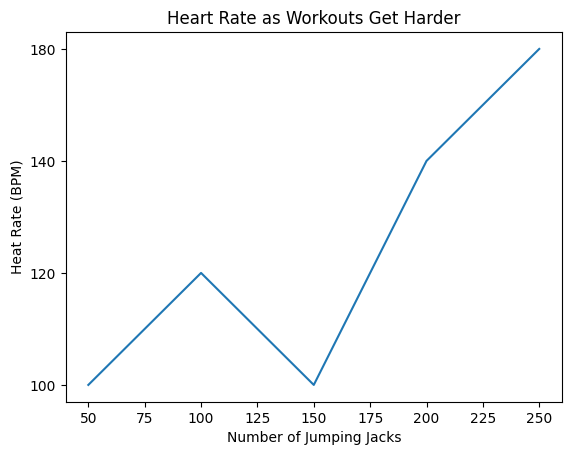
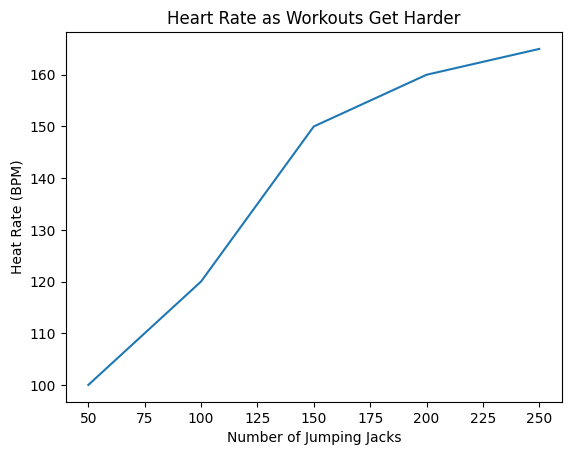
Final Changes

diff --git a/templates/index.html b/templates/index.html
@@ -83,11 +83,11 @@ button[type=submit]:hover {
 
 <head>
     <meta charset="UTF-8">
-    <title>OKZoomer</title>
+    <title>Feel That Beat</title>
 </head>
 <div id="roundedbox">
     <body>
-    <firstline>Welcome to The HeartRate Tracker Workout!</firstline>
+    <firstline>Welcome to Feel That Beat!</firstline>
     <p>Please Attempt to complete each amount of Jumping Jacks in 2 mintues and then immediately record your Heart Rate!</p>
     </body>
     <form method="post">

diff --git a/templates/report.html b/templates/report.html
@@ -53,10 +53,10 @@ h4{
 
 <head>
     <meta charset="UTF-8">
-    <title>OKZoomer</title>
+    <title>Feel That Beat!</title>
 </head>
 <body id=roundedbigbox style="padding-top: 20px">
    <h1 style="text-align: center; font-family:'Montserrat'">Your Workout Summary</h1>
-   <img src="{{url_for('static', filename='graph.png')}}" style="width:65%" alt="graph">
+   <img src="{{url_for('static', filename='graph.png')}}" style="width:65%" >
 </body>
 </html>

diff --git a/creategraph.py b/creategraph.py
@@ -2,7 +2,8 @@ import matplotlib.pyplot as plt
 
 def graph(data):
     plt.switch_backend('Agg')
-    plt.plot([50,100,150,200,250], data)
+    data_int = [int(data[0]),int(data[1]),int(data[2]),int(data[3]),int(data[4])]
+    plt.plot([50,100,150,200,250], data_int)
     plt.xlabel('Number of Jumping Jacks')
     plt.ylabel('Heat Rate (BPM)')
     plt.title("Heart Rate as Workouts Get Harder")
